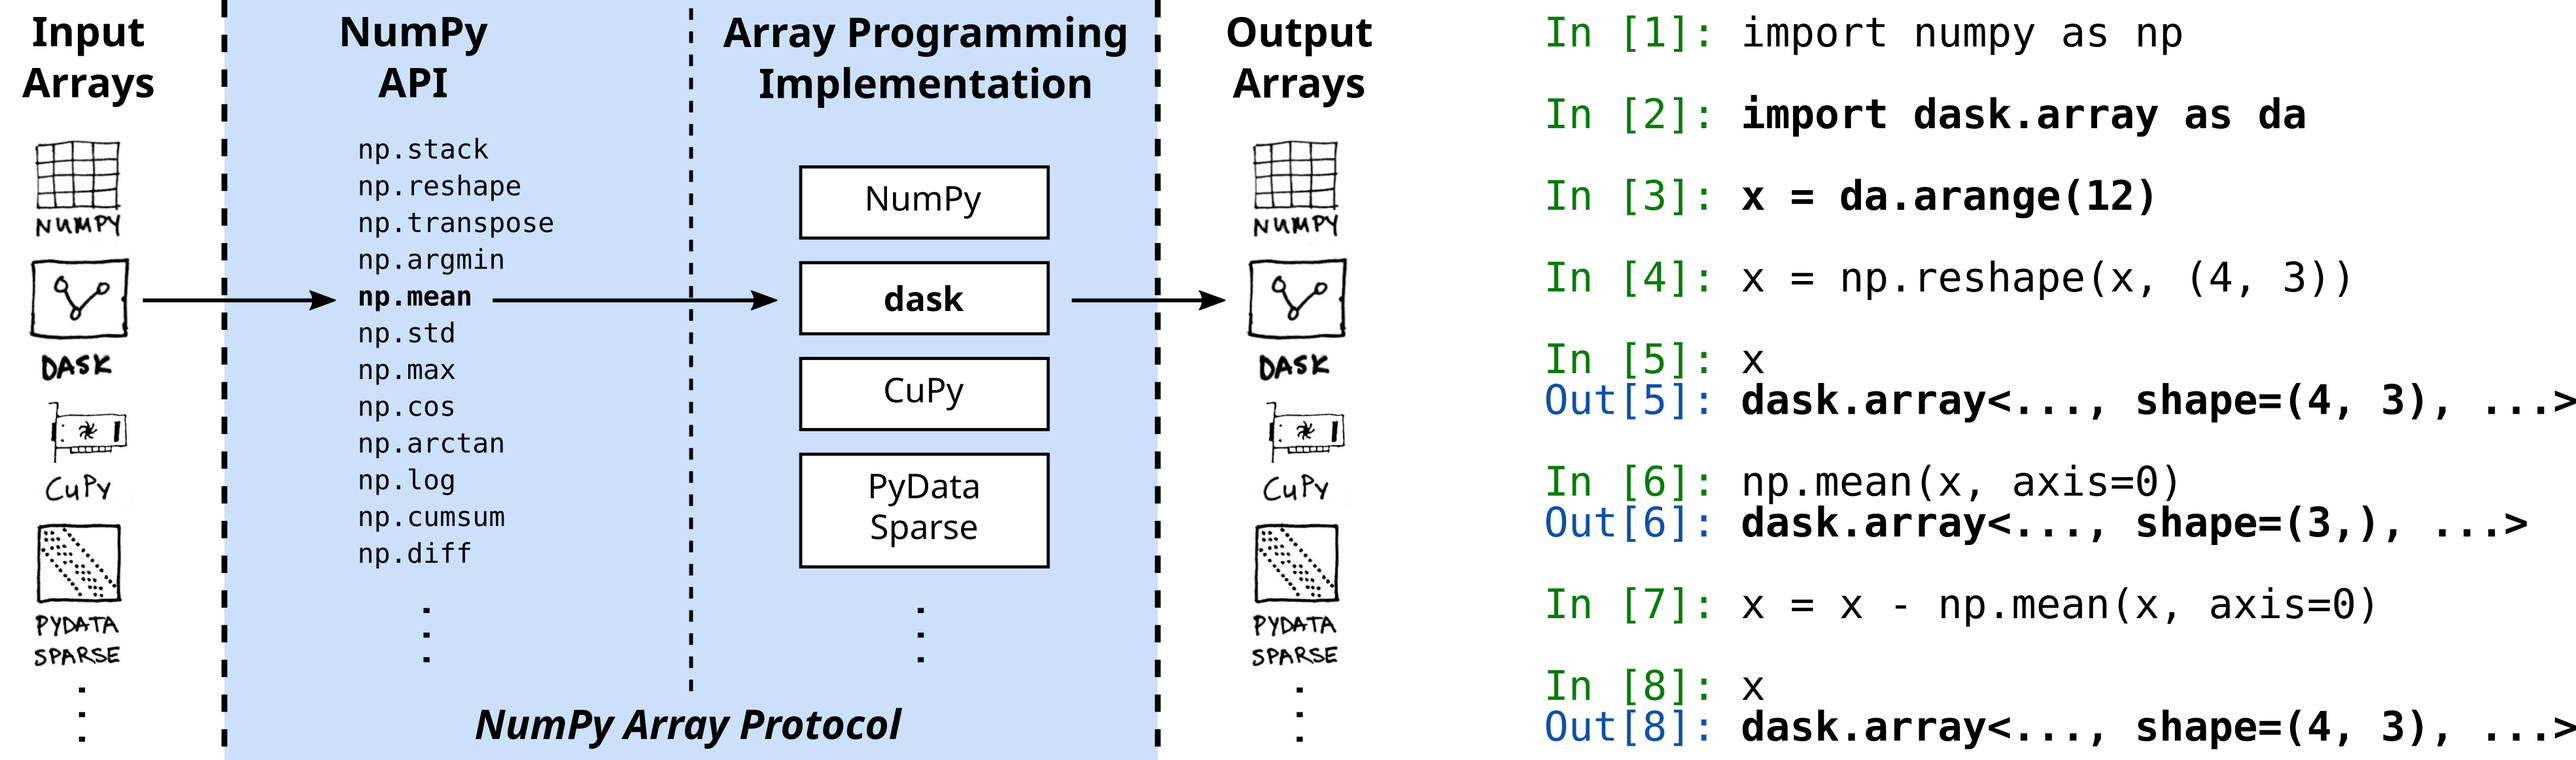
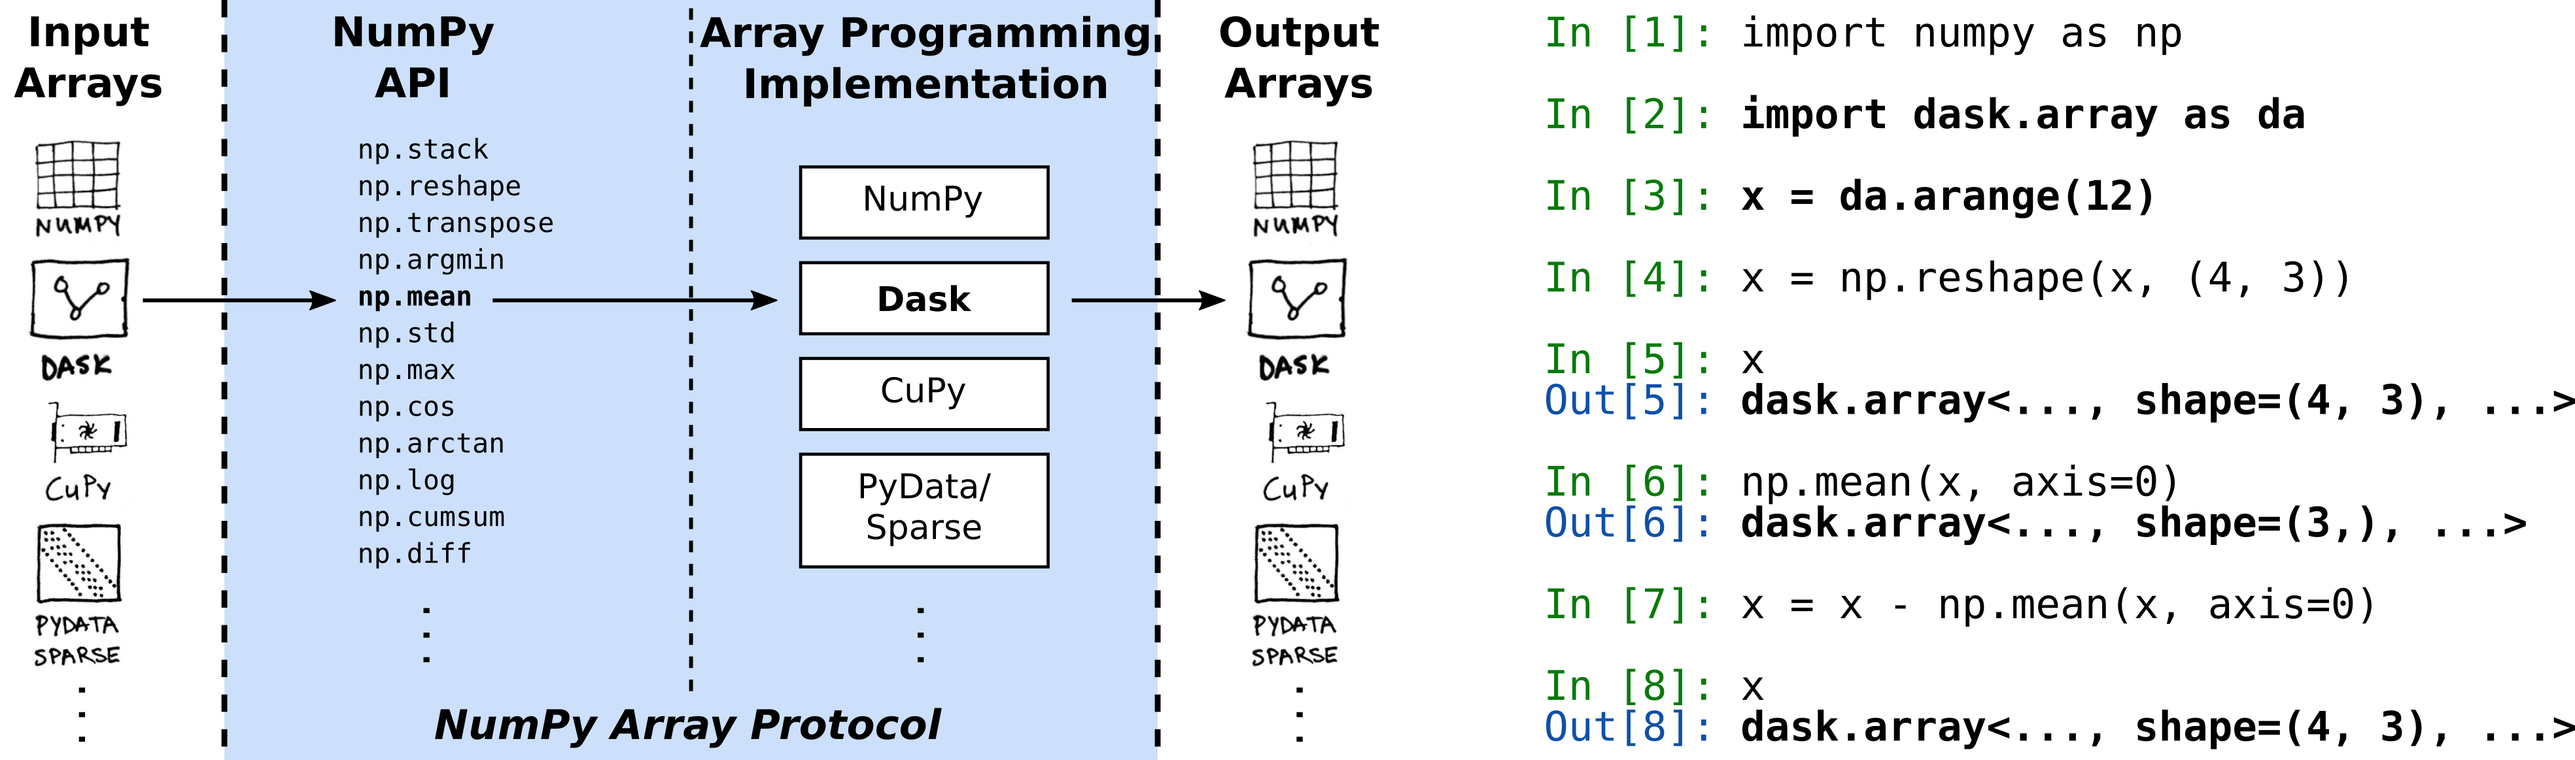
Minor edits

diff --git a/body.tex b/body.tex
@@ -47,7 +47,7 @@ the \emph{de facto} exchange format for array data in Python.
 
 NumPy operates on in-memory arrays using the CPU. To utilize modern,
 specialized storage and hardware, there has been a recent
-proliferation of Python array packages. Unlike with the Numarray and
+proliferation of Python array packages. Unlike with the NumArray and
 Numeric divide, it is now much harder for these new libraries to
 fracture the user community---given how much work already builds
 on-top of NumPy.  However, to provide the ecosystem with access to
@@ -224,10 +224,10 @@ including for the generation of the final image of the black hole.
 
 The rapid recent growth of data science, machine learning, and
 artificial intelligence has further and dramatically boosted the usage of
-scientific Python.  Examples of its impactful application, such as the
+scientific Python.  Examples of its significant application, such as the
 above, now exist in almost every discipline in the natural and social
-sciences.  These tools have become \emph{the
-primary} software environment in many fields.  NumPy and its ecosystem are commonly
+sciences.  These tools have become \emph{the primary}
+software environment in many fields.  NumPy and its ecosystem are commonly
 taught in university courses, boot camps, and summer schools, and are
 at the focus of community conferences and workshops worldwide.
 
@@ -273,7 +273,7 @@ its own arrays; PyTorch \cite{NEURIPS2019_9015},
 Tensorflow \cite{abadi2016tensorflow}, Apache MXNet \cite{chen2015mxnet},
 and JAX arrays all have the
 capability to run on CPUs and GPUs, in a distributed fashion, utilizing lazy evaluation
-to allow for additional performance optimizations.  SciPy and Sparse both
+to allow for additional performance optimizations.  SciPy and PyData/Sparse both
 provide sparse arrays---which typically contain few non-zero values and store
 only those in memory for efficiency.
 In addition, there are projects that build on top of NumPy arrays as a data
@@ -375,8 +375,8 @@ their computation from a single machine to distributed systems using Dask. The p
 NumPy was initially developed by students, faculty, and researchers to
 provide an advanced, open-source array programming library for Python,
 which was free to use and unencumbered by license servers, dongles, and the like.
-There was a sense of building something
-impactful together, for the benefit of many others.  Participating in
+There was a sense of building something consequential together,
+for the benefit of many others.  Participating in
 such an endeavor, within a welcoming community of like-minded
 individuals, held a powerful attraction for many early contributors.
 
@@ -416,7 +416,7 @@ easier to read array notation.
 Since it is not part of the standard library, NumPy is able to
 dictate its own release policies and development patterns.
 
-NumPy is a community of practice with a strong \emph{culture} of
+NumPy is a community of practice with a \emph{culture} of
 employing software engineering practice to improve collaboration and
 reduce error \cite{millman2014developing}.  This culture is not only
 adopted by leaders in the project but also enthusiastically taught to

diff --git a/paper.tex b/paper.tex
@@ -80,7 +80,7 @@ Tim Peters, and Konrad Hinsen.
 
 Around 1998, the Space Telescope Science Institute (STScI) software group began
 to use Python heavily, and, around 2000, wrote a reimplementation of
-Numeric, called Numarray.
+Numeric, called NumArray.
 %https://lancesimms.com/programs/Python/pyraf/Docs/greenfield.pdf
 Perry Greenfield created the original framework.
 Many people contributed to it including Jay Todd Miller, JT Hsu, Richard
